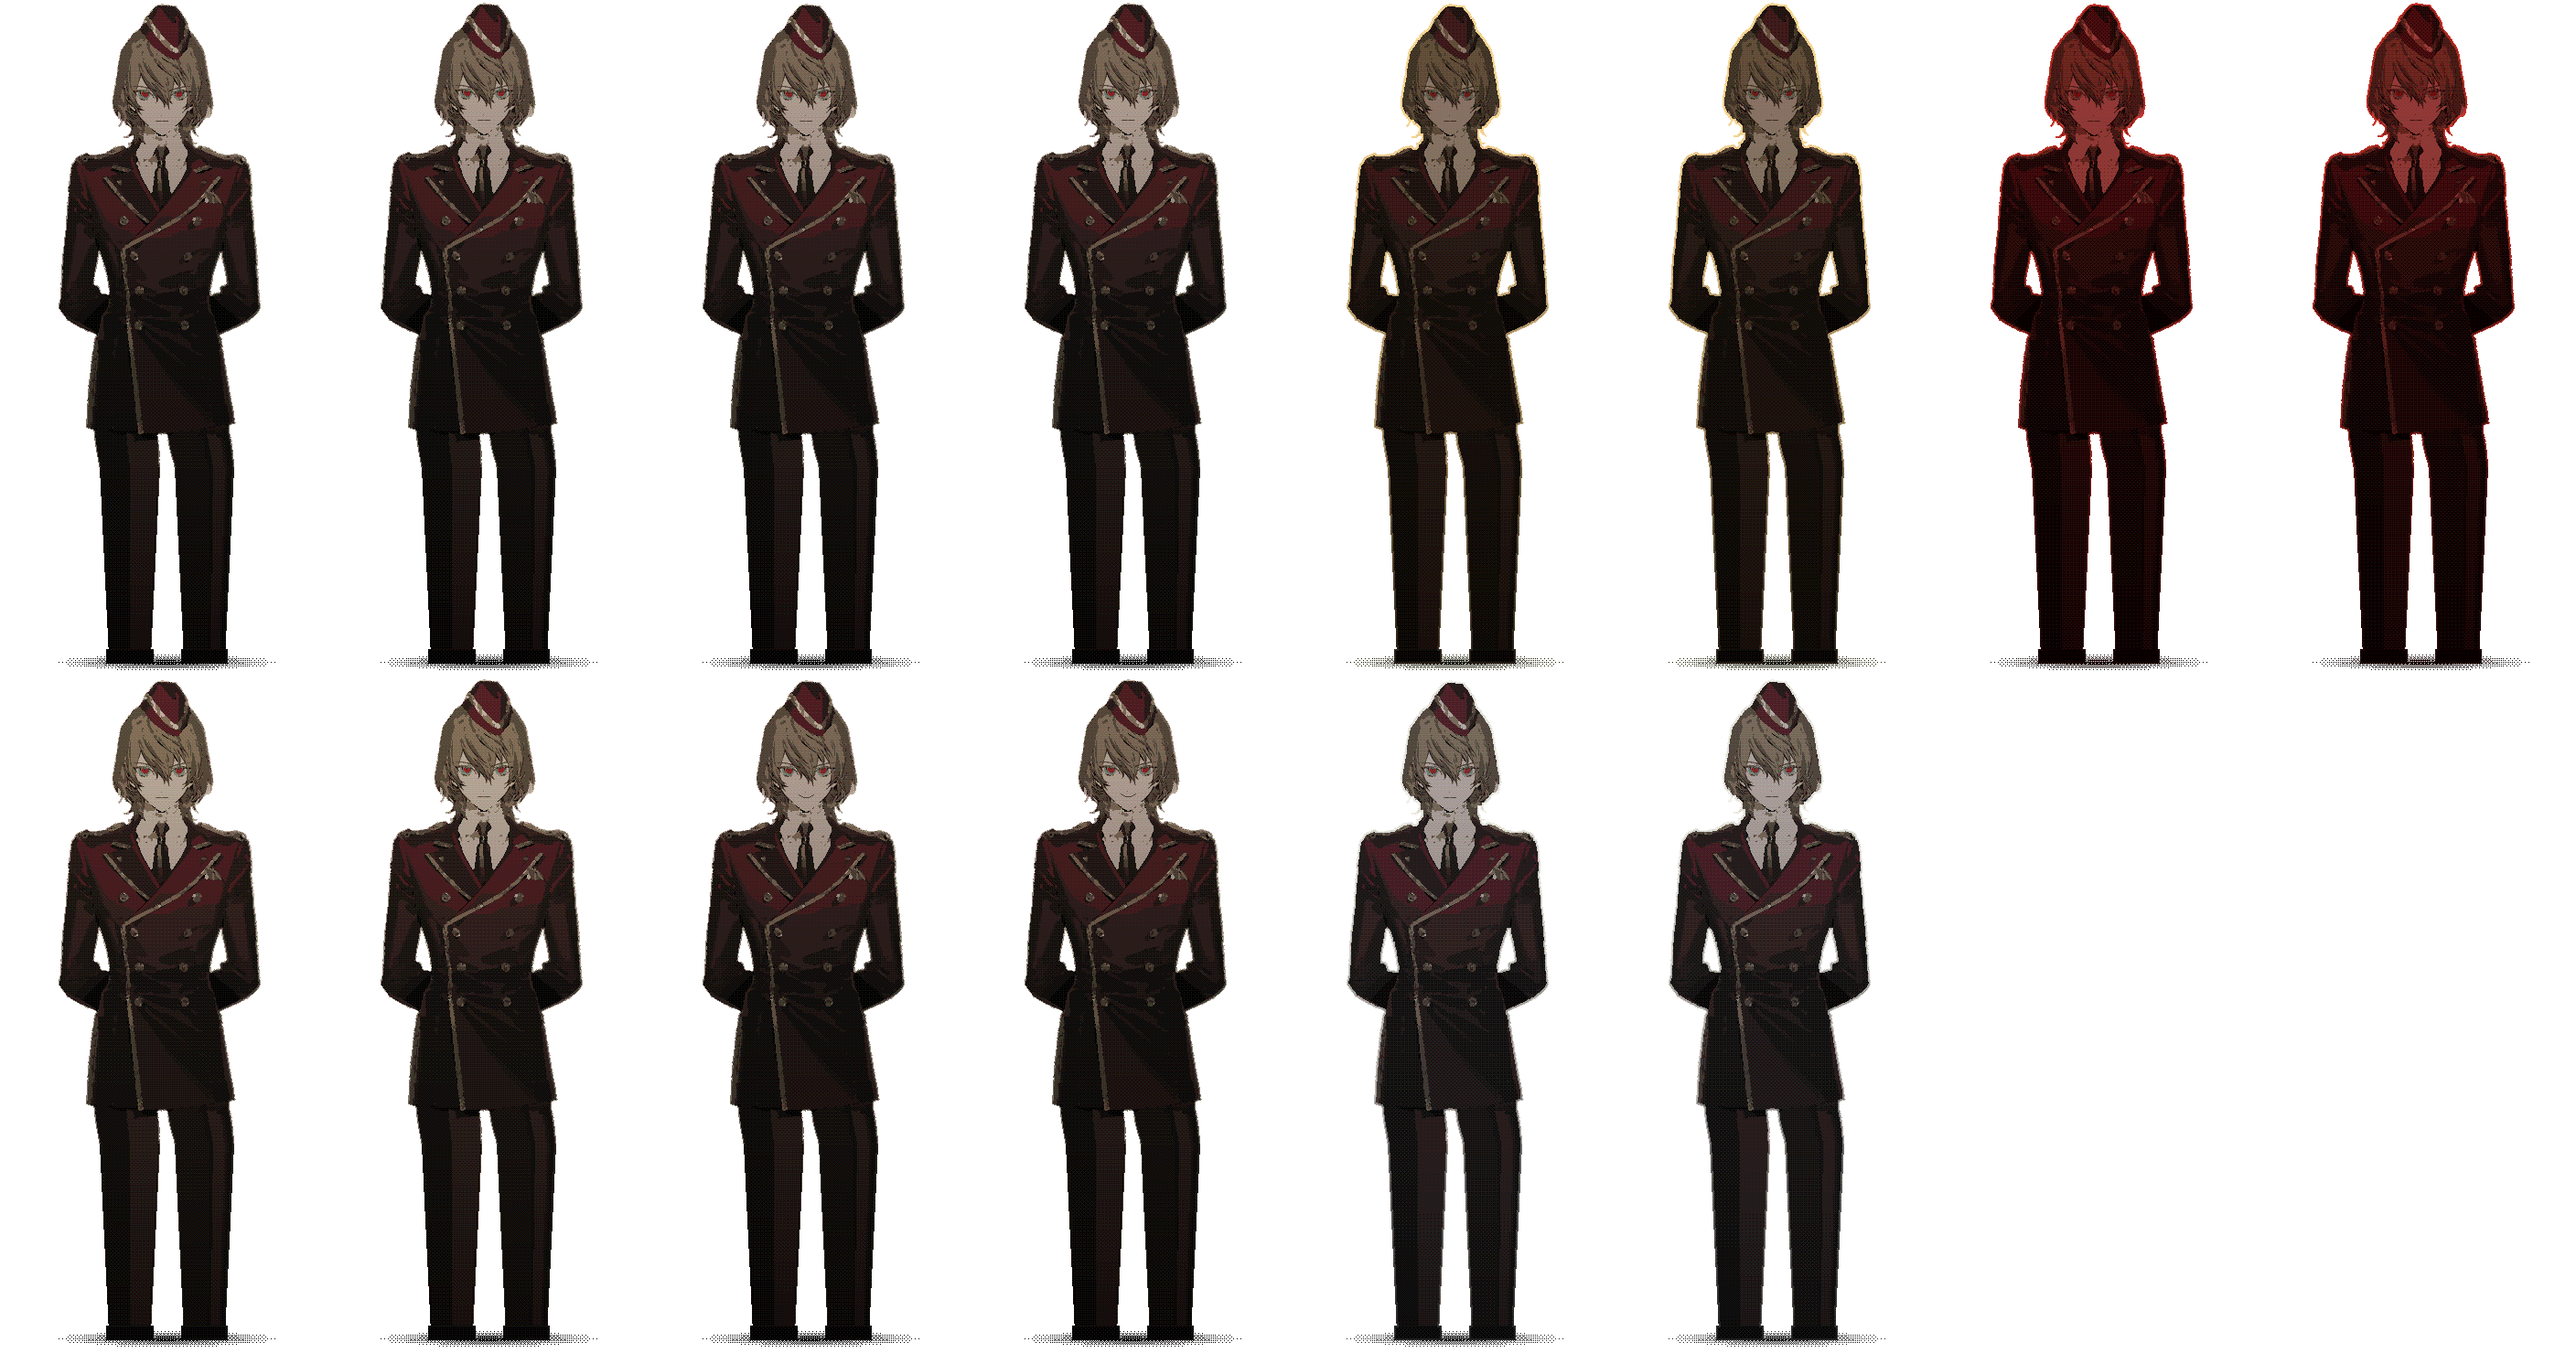
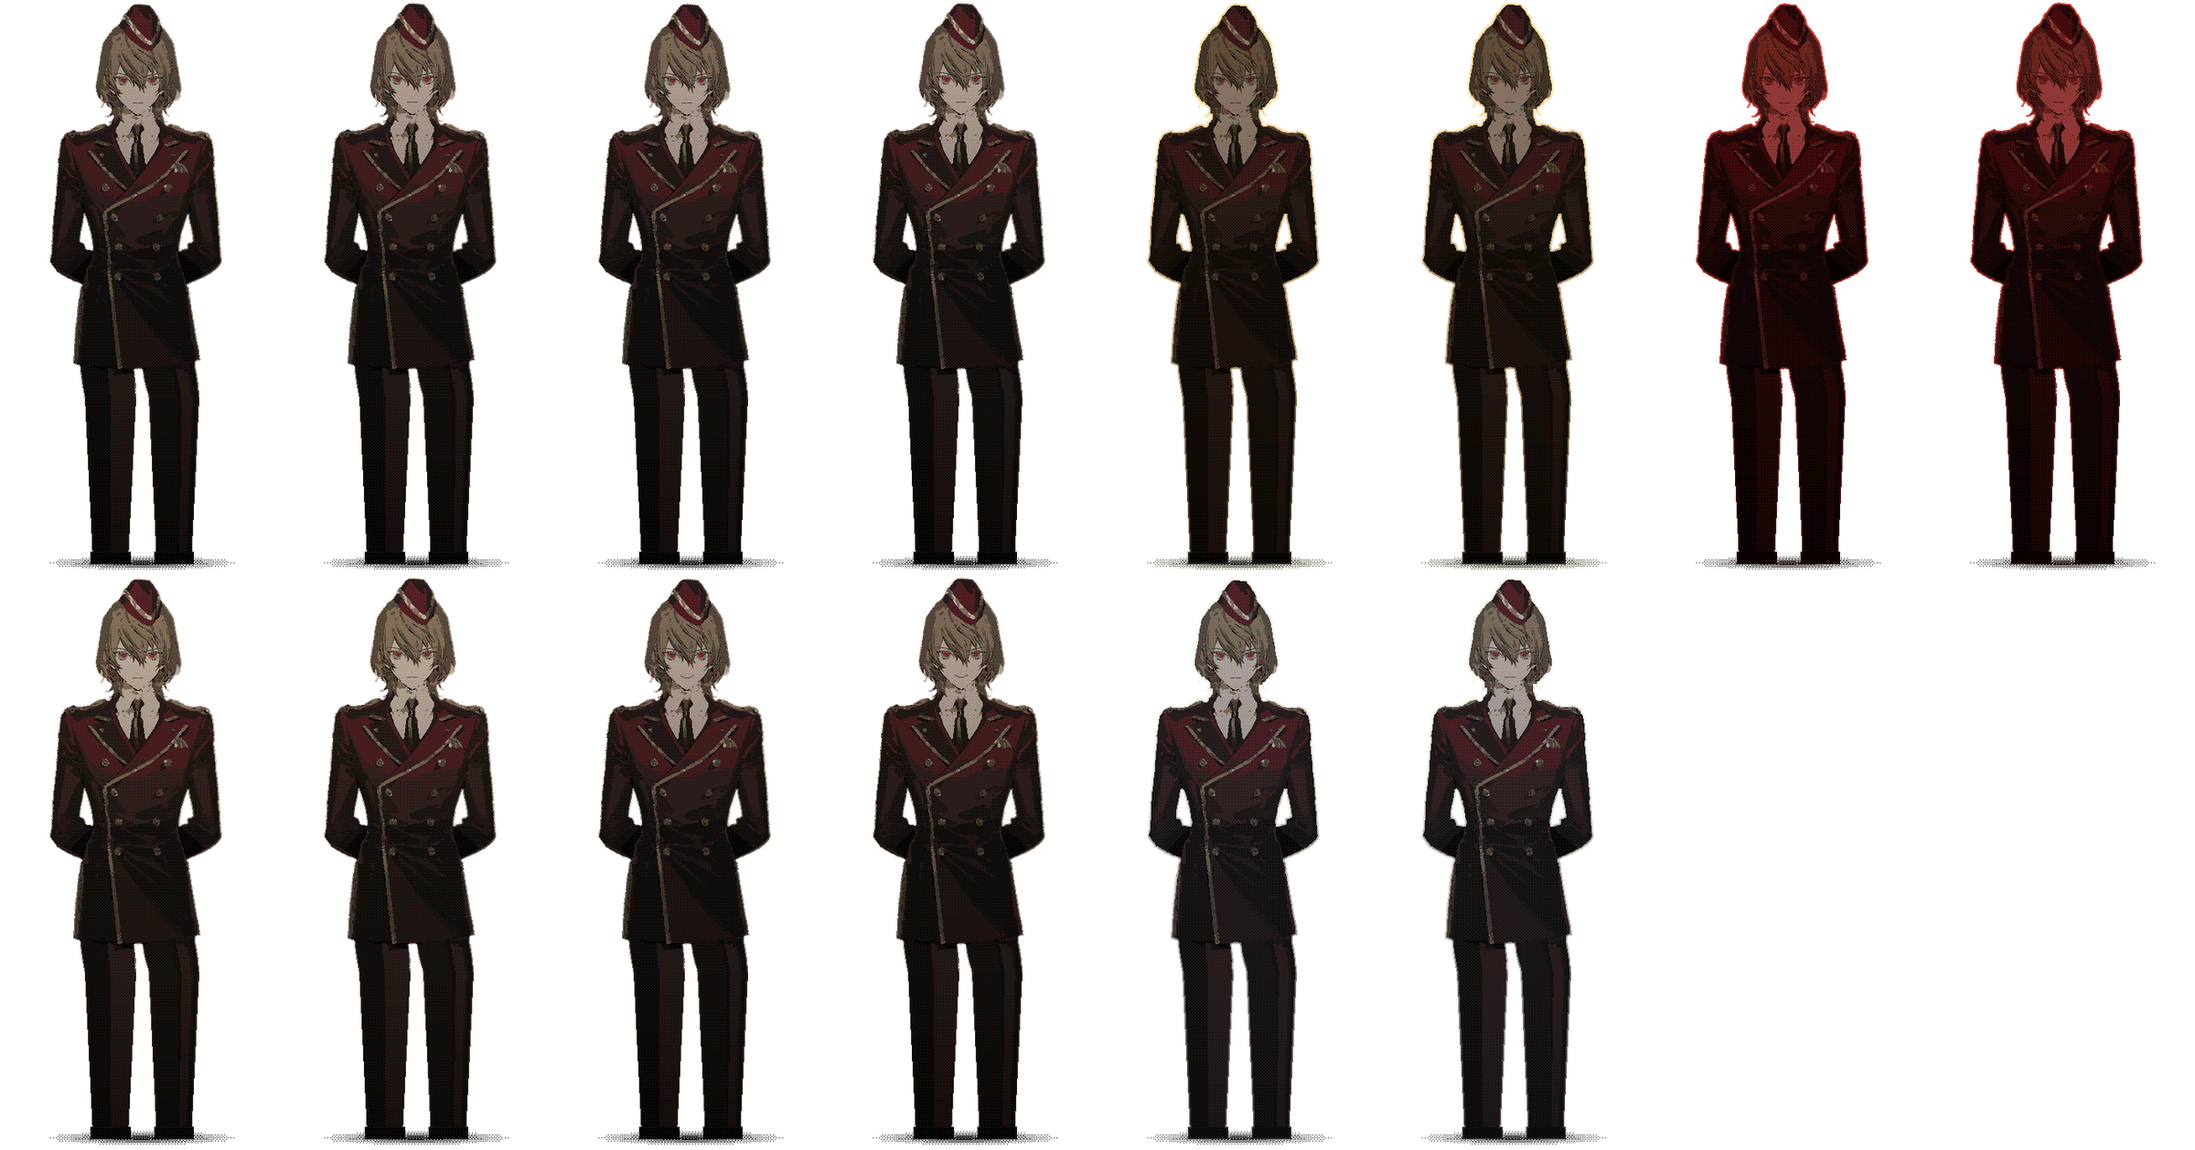
아케치 해상도 85%
Claude-Session: https://claude.ai/code/session_01B3xQ3TYQW8JZtZzH7F9j5Y

diff --git a/index.html b/index.html
@@ -255,7 +255,7 @@ load('ak', 'assets/m1.png');
 load('shadow', 'assets/m3.png');
 // Akechi sheets: 4 cells (base, breathe-up, blink, blink+up), 350px wide with a 2px gutter
 // one atlas for every lighting of Akechi: 4 sheets per row, 2 cells each (base, breathe-up), 2px gutters
-const AT_W = 2816, AT_H = 1480, CELL_W = 350, CELL_STEP = 352, CELL_H = 740;
+const AT_W = 2400, AT_H = 1258, CELL_W = 298, CELL_STEP = 300, CELL_H = 629;
 const AK = { closed: [0, 0], hall: [1, 0], studio: [2, 0], red: [3, 0], lobby: [0, 1], mirror: [1, 1], exit: [2, 1] };
 tex.ak.repeat.set(CELL_W / AT_W, CELL_H / AT_H);
 let akSheet = 'closed';
